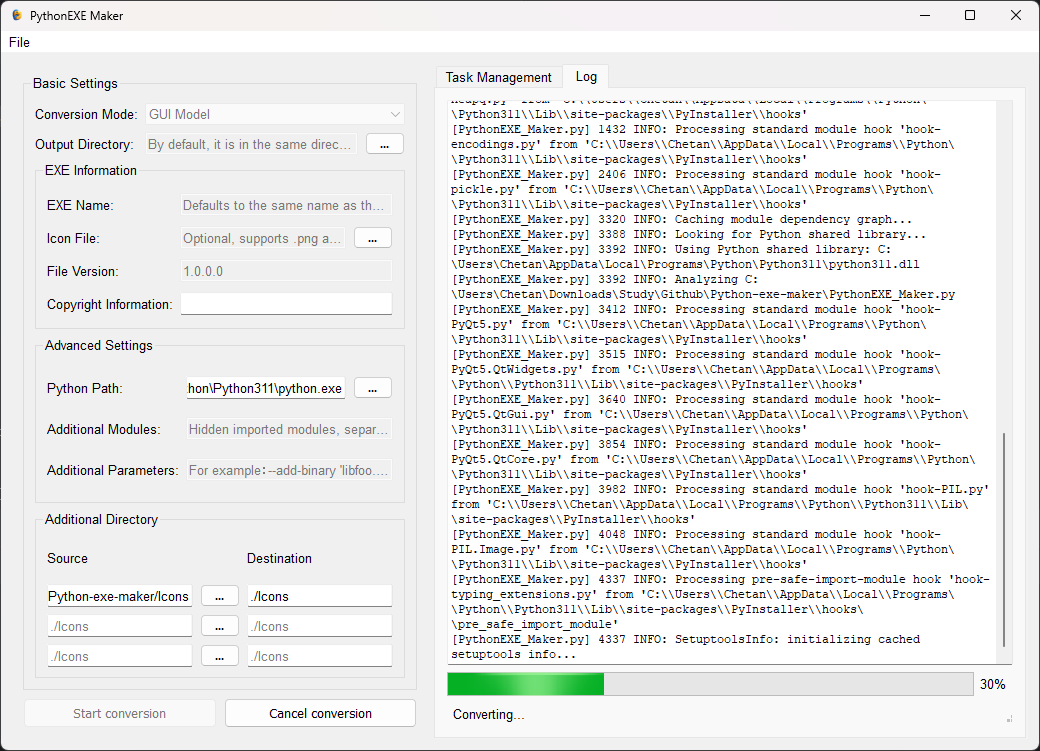
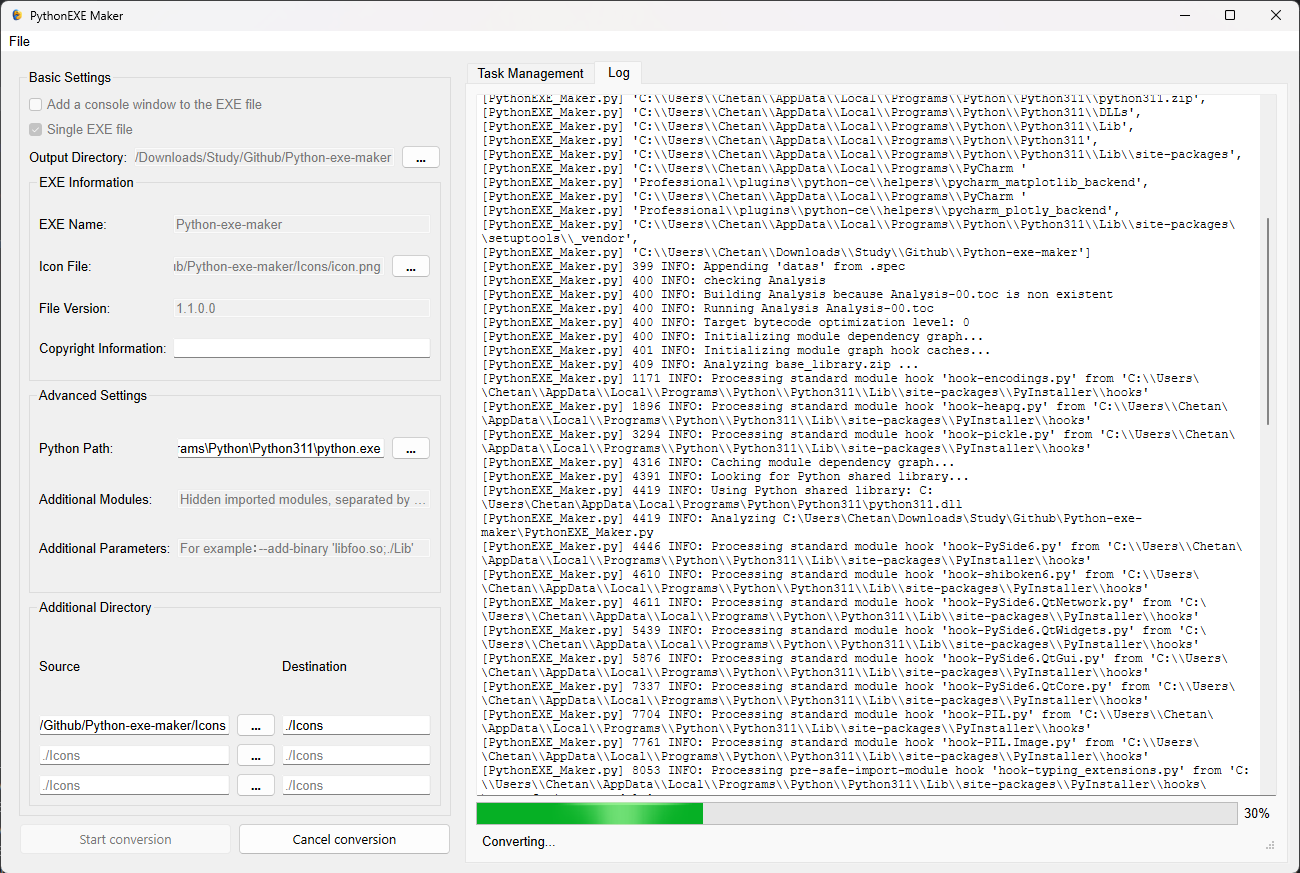
Updated README and screenshots

diff --git a/PythonEXE_Maker.py b/PythonEXE_Maker.py
@@ -3,11 +3,10 @@ import sys
 import subprocess
 import logging
 
-from PySide6.QtWidgets import (
-    QApplication, QMainWindow, QWidget, QVBoxLayout, QLabel, QPushButton, QFileDialog, QMessageBox,
-    QTextEdit, QLineEdit, QHBoxLayout, QProgressBar, QGridLayout, QComboBox, QGroupBox, QStatusBar,
-    QListWidget, QListWidgetItem, QSplitter, QScrollArea, QFrame, QTabWidget, QCheckBox, QRadioButton
-)
+from PySide6.QtWidgets import (QApplication, QMainWindow, QWidget, QVBoxLayout, QLabel, QPushButton, QFileDialog,
+                               QMessageBox, QTextEdit, QLineEdit, QHBoxLayout, QProgressBar, QGridLayout, QGroupBox,
+                               QStatusBar, QListWidget, QListWidgetItem, QSplitter, QScrollArea, QFrame, QTabWidget,
+                               QCheckBox)
 from PySide6.QtGui import QFont, QIcon, QColor, QAction
 from PySide6.QtCore import Qt, QRunnable, QThreadPool, Signal, QObject
 
@@ -312,7 +311,7 @@ class DropArea(QLabel):
         super().__init__(parent)
         self.setAcceptDrops(True)
         self.setText("Drag in .py file")
-        self.setAlignment(Qt.AlignCenter)
+        self.setAlignment(Qt.AlignmentFlag.AlignCenter)
         self.setStyleSheet("""
             QLabel {
                 border: 2px dashed #aaa;
@@ -367,7 +366,7 @@ class MainWindow(QMainWindow):
         # Menu bar
         self.init_menu()
 
-        splitter = QSplitter(Qt.Horizontal)
+        splitter = QSplitter(Qt.Orientation.Horizontal)
 
         # Settings and operation area on the left
         left_widget = QWidget()
@@ -423,7 +422,7 @@ class MainWindow(QMainWindow):
         self.task_area.setWidgetResizable(True)
         self.task_container = QWidget()
         self.task_layout = QVBoxLayout(self.task_container)
-        self.task_layout.setAlignment(Qt.AlignTop)
+        self.task_layout.setAlignment(Qt.AlignmentFlag.AlignTop)
         self.task_area.setWidget(self.task_container)
         task_progress_layout.addWidget(self.task_area)
 

diff --git a/README.md b/README.md
@@ -12,7 +12,8 @@
 - **Batch conversion**: Convert multiple Python scripts to EXE files at once.
 
 - **Custom settings**:
-  - Select the conversion mode (GUI mode or command line mode).
+  - Option to add a console window or hide the console window.
+  - Option to select single file or single directory.
   - Specify the output directory.
   - Set the EXE file name.
   - Add a custom icon (supports `.png` and `.ico` formats, `.png` will be automatically converted to `.ico`).
@@ -73,7 +74,7 @@
     *If there is no `requirements.txt` file, please install the dependencies manually:*
 
     ```bash
-    pip install PyQt5 Pillow PyInstaller
+    pip install pyside6-essentials Pillow PyInstaller
     ```
 
 ## Instructions
@@ -86,7 +87,9 @@
 
 2. **Configure conversion parameters**
 
-   - **Conversion mode**: Select whether the generated EXE is with a console (command line mode) or without a console (GUI mode).
+   - **Console Window**: Select whether the generated EXE is with a console (command line mode) or without a console.
+   - 
+   - **Single File**: Select whether the generated EXE is a single file or a single directory.
 
    - **Output directory**: Specify the storage location of the generated EXE file, which defaults to the directory where the source file is located.
 
@@ -98,9 +101,11 @@
 
      - **File version**: Set the version number of the EXE file (format: X.X.X.X).
      - **Copyright information**: Set the copyright information of the EXE file.
+   
    - **Advanced settings**:
      - **Additional modules**: Enter the module names that need to be hidden import. Multiple modules are separated by commas.
      - **Additional arguments**: Enter additional command line arguments for PyInstaller.
+   
    - **Additional Directory**: Specify the source and destination location of the directory to be included in the folder.
 
 3. **Add conversion task**
